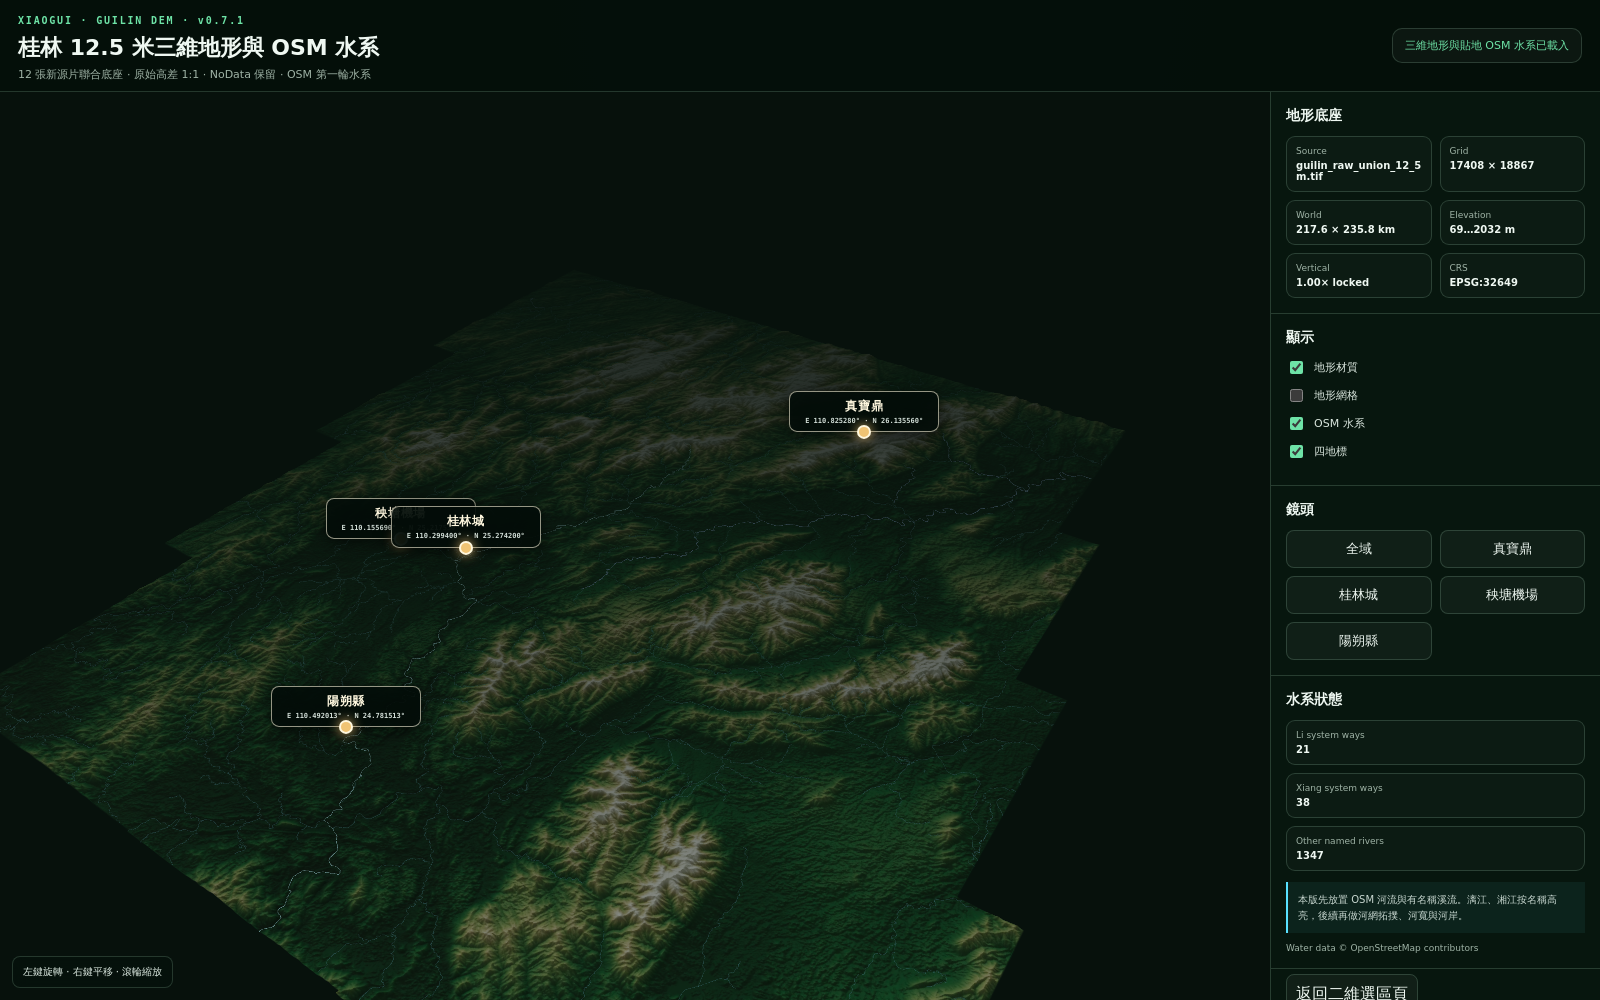
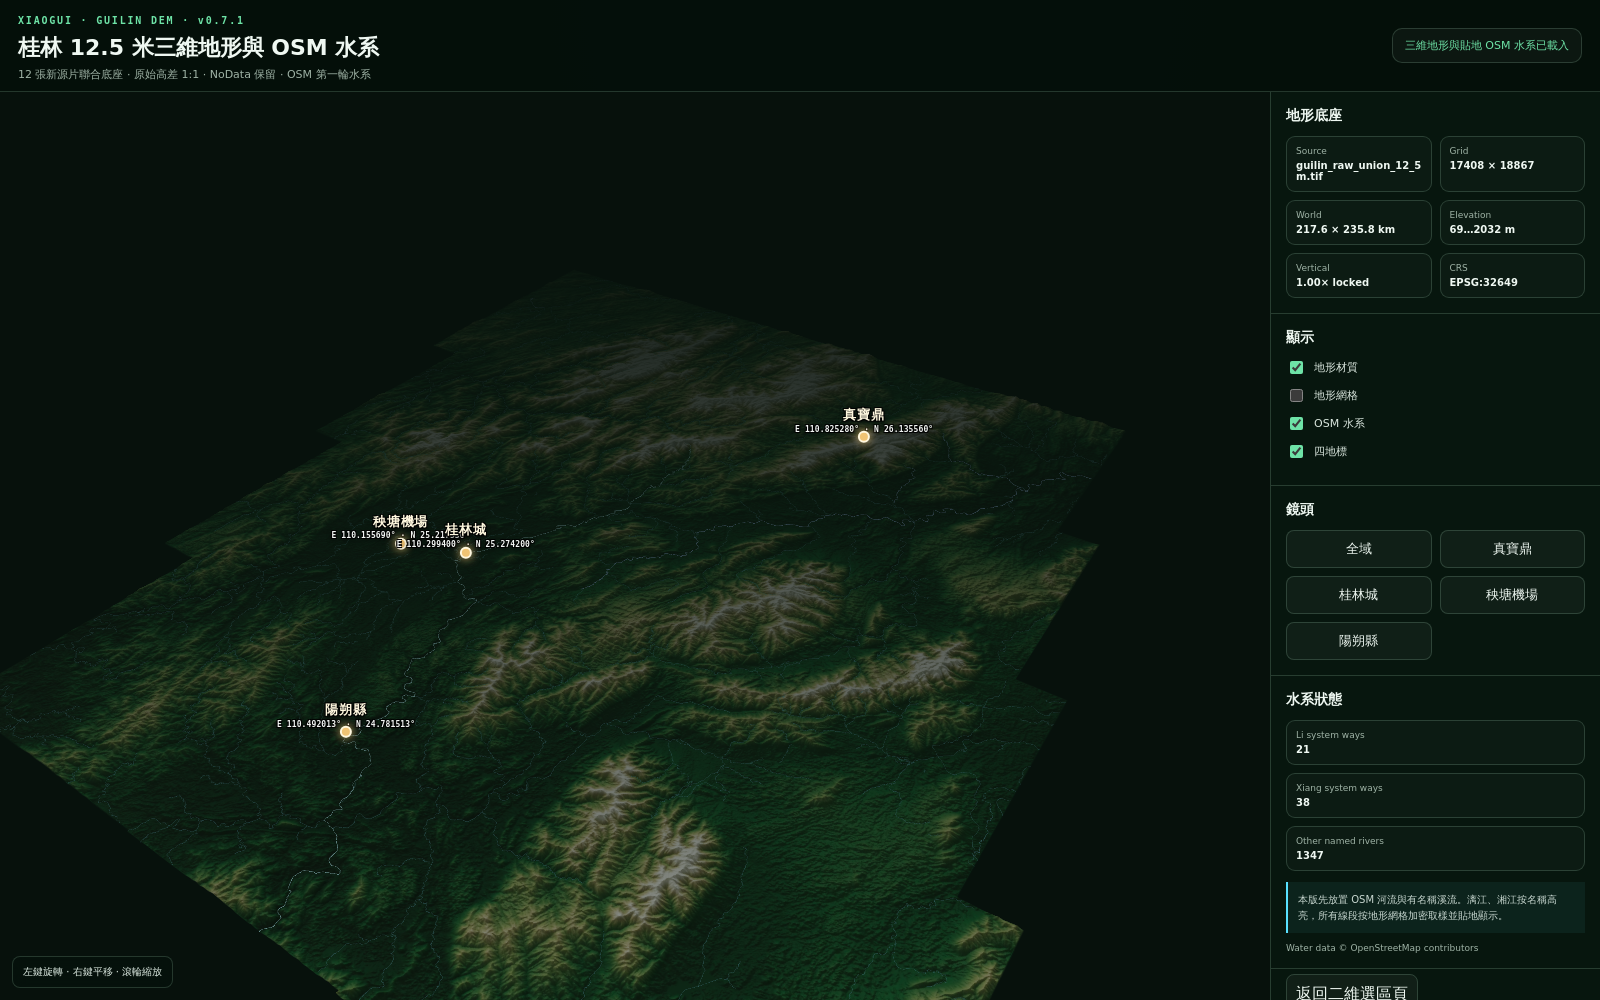
Publish Guilin v0.7.1 3D terrain from 4c97fd867df08f8fad627ff86b949dba41cbb0cd 4c97fd867df08f8fad627ff86b949dba41cbb0cd

diff --git a/guilin-v071-terrain3d/styles.css b/guilin-v071-terrain3d/styles.css
@@ -48,32 +48,52 @@ button, .link { padding: 9px; border: 1px solid var(--line); border-radius: 8px;
 button:hover, .link:hover { border-color: rgba(110,227,167,.55); background: rgba(110,227,167,.1); }
 .notice { margin: 11px 0 0; padding: 10px; border-left: 2px solid var(--water); background: rgba(88,225,255,.06); color: #c9d8d1; font-size: 10px; line-height: 1.55; }
 .osm { margin: 10px 0 0; color: var(--muted); font-size: 9px; }
+
 .landmark-label {
   position: absolute;
-  min-width: 150px;
-  transform: translate(-50%, calc(-100% - 10px));
-  padding: 6px 8px 5px;
-  border: 1px solid rgba(255,248,223,.58);
-  border-radius: 8px;
-  background: rgba(4, 14, 9, .9);
+  transform: translate(-50%, calc(-100% - 8px));
+  padding: 0;
+  border: 0;
+  border-radius: 0;
+  background: transparent;
   color: #fff8df;
   text-align: center;
   white-space: nowrap;
-  filter: drop-shadow(0 3px 8px rgba(0,0,0,.7));
+  filter: none;
+  text-shadow:
+    -1px -1px 0 rgba(0, 0, 0, .95),
+    1px -1px 0 rgba(0, 0, 0, .95),
+    -1px 1px 0 rgba(0, 0, 0, .95),
+    1px 1px 0 rgba(0, 0, 0, .95),
+    0 2px 5px rgba(0, 0, 0, .95);
 }
 .landmark-label::after {
   content: "";
   position: absolute;
-  left: 50%; bottom: -8px;
-  width: 10px; height: 10px;
+  left: 50%;
+  bottom: -9px;
+  width: 8px;
+  height: 8px;
   transform: translateX(-50%);
   border: 2px solid #fff8df;
   border-radius: 50%;
   background: var(--gold);
-  box-shadow: 0 0 12px rgba(240,196,116,.9);
+  box-shadow: 0 0 10px rgba(240,196,116,.9);
 }
-.landmark-label strong { display: block; font-size: 12px; letter-spacing: .06em; }
-.landmark-label small { display: block; margin-top: 2px; color: #d3dfd8; font: 700 7px/1.3 ui-monospace, SFMono-Regular, Consolas, monospace; }
+.landmark-label strong {
+  display: block;
+  font-size: 13px;
+  line-height: 1.05;
+  letter-spacing: .06em;
+}
+.landmark-label small {
+  display: block;
+  margin-top: 3px;
+  color: #f4f7f5;
+  font: 750 8px/1.2 ui-monospace, SFMono-Regular, Consolas, monospace;
+  letter-spacing: .015em;
+}
+
 @media (max-width: 820px) {
   html, body { overflow: auto; }
   header { height: auto; min-height: 86px; padding: 12px; }
@@ -82,4 +102,6 @@ button:hover, .link:hover { border-color: rgba(110,227,167,.55); background: rgb
   main { display: block; height: auto; }
   #viewerShell { height: 64vh; min-height: 480px; }
   aside { border-left: 0; border-top: 1px solid var(--line); }
+  .landmark-label strong { font-size: 11px; }
+  .landmark-label small { font-size: 7px; }
 }

diff --git a/guilin-v071-terrain3d/index.html b/guilin-v071-terrain3d/index.html
@@ -4,7 +4,7 @@
   <meta charset="utf-8" />
   <meta name="viewport" content="width=device-width, initial-scale=1, maximum-scale=1" />
   <title>小桂 · 桂林 12.5 米三維地形</title>
-  <link rel="stylesheet" href="./styles.css" />
+  <link rel="stylesheet" href="./styles.css?v=0712" />
   <script type="importmap">
     {
       "imports": {
@@ -70,7 +70,7 @@
           <div><dt>Xiang system ways</dt><dd id="xiangCount">--</dd></div>
           <div><dt>Other named rivers</dt><dd id="otherCount">--</dd></div>
         </dl>
-        <p class="notice">本版先放置 OSM 河流與有名稱溪流。漓江、湘江按名稱高亮，後續再做河網拓撲、河寬與河岸。</p>
+        <p class="notice">本版先放置 OSM 河流與有名稱溪流。漓江、湘江按名稱高亮，所有線段按地形網格加密取樣並貼地顯示。</p>
         <p class="osm">Water data © OpenStreetMap contributors</p>
       </section>
 
@@ -81,6 +81,6 @@
   </main>
 
   <script src="https://cdnjs.cloudflare.com/ajax/libs/proj4js/2.11.0/proj4.js"></script>
-  <script type="module" src="./app.js"></script>
+  <script type="module" src="./app.js?v=0712"></script>
 </body>
 </html>
